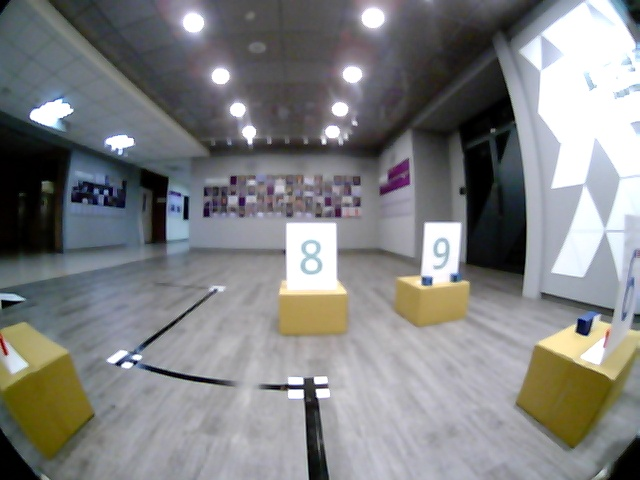
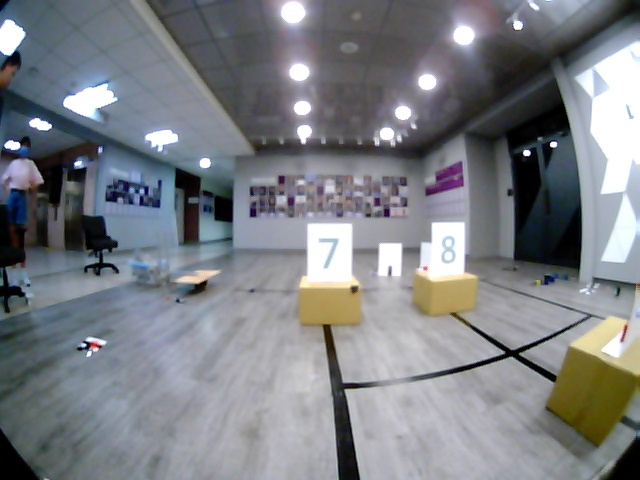
還差左移右移，推牌前65cm

diff --git a/main_func/src/run.cpp b/main_func/src/run.cpp
@@ -10,6 +10,7 @@ int nodeToGo;
 double xNow, xLast = -1;
 bool nodeLoseConp = 0;
 int capt_ed_times = 0;
+bool rotate_ed = 0;
 
 ros::Publisher orientation_pub;
 ros::Publisher cmd_vel_pub;
@@ -43,10 +44,11 @@ void numberCallback(const std_msgs::Int32MultiArray::ConstPtr& the_numbers){
     for(auto i:the_numbers->data){
         CAM::numbers.insert(i);
     }
+    _pub4 = 0;
 }
 void odomCallback(const geometry_msgs::Twist::ConstPtr& ins_vel){
     odometry.update(ins_vel);
-    ROS_INFO("{%d -> %d}  (%.1lf, %.1lf, %.1lf) oriNow: %d",MAP::nodeNow,nodeToGo,odometry.x, odometry.y, odometry.theta, ODOM::oriNow);
+    // ROS_INFO("{%d -> %d}  (%.1lf, %.1lf, %.1lf) oriNow: %d",MAP::nodeNow,nodeToGo,odometry.x, odometry.y, odometry.theta, ODOM::oriNow);
 }
 
 int main(int argc, char **argv){
@@ -82,32 +84,21 @@ int main(int argc, char **argv){
 
 
     */
-    // MAP::nodeNow = 4;       //
+    // MAP::nodeNow = 10;       //
     // odometry.x = 330;       //
-    // nodeToGo = 7;           //    
+    // nodeToGo = 11;           //    
+
+    ros::Rate delay3(1);
+    delay3.sleep();
+    delay3.sleep();
+    delay3.sleep();
 
     SCRIPT::firstLevel(nh);
     ROS_INFO("pass 1st Level!!");
 
-    ros::Rate rate(20);
-    while(nh.ok() && odometry.theta < PI/2){
-        //逆時針轉90度
-        ros::spinOnce();
-        ODOM::oriNow = orientation.data = 4;
-        // rotate_ang.angular.z = 1;
-        // cmd_vel_pub.publish(rotate_ang);
-        orientation_pub.publish(orientation);
-        rate.sleep();
-    }
-    while(nh.ok() && odometry.theta < 90){
-        //逆時針轉90度
-        ros::spinOnce();
-        ODOM::oriNow = orientation.data = 4;
-        // rotate_ang.angular.z = 1;
-        // cmd_vel_pub.publish(rotate_ang);
-        orientation_pub.publish(orientation);
-        rate.sleep();
-    }
+    //往左走65cm
+    
+    ROS_INFO("rotate_done!!");
     int cmdori_7_times = 0;
     while(nh.ok()){
         if(cmdori_7_times < 40){
@@ -125,9 +116,25 @@ void SCRIPT::firstLevel(ros::NodeHandle& nh){
     ROS_INFO("On -1, -> 0 ; go ahead: 0");
     int cmdori_6_times = 0;
     // int cmdori_6_times = 800;   //
-    while(nh.ok() && MAP::nodeNow < 12){
+    while(nh.ok() && MAP::nodeNow < 13){
         cam_pub.publish(cam_mode);
         ros::spinOnce();
+
+        if(nodeNow == 12 && !rotate_ed){
+            while(nh.ok() && odometry.theta < PI/2){
+            //逆時針轉90度
+                ros::spinOnce();
+                ODOM::oriNow = orientation.data = 4;
+                // rotate_ang.angular.z = 1;
+                // cmd_vel_pub.publish(rotate_ang);
+                orientation_pub.publish(orientation);
+                rate.sleep();
+                ROS_INFO("rotating");
+            }
+            rotate_ed = 1;
+            ODOM::oriNow = orientation.data = 0;
+            ROS_INFO("rotate_ed");
+        }
 
         if(onNode){
             // nodeLoseConp = 0;
@@ -156,29 +163,24 @@ void SCRIPT::firstLevel(ros::NodeHandle& nh){
             nodeToGo = max;
 
             ODOM::oriNow = orientation.data = MAP::cmd_ori(nodeToGo, nodeNow);
-            // if(nodeNow == 1 && nodeToGo == 4
-            // || nodeNow == 2 && nodeToGo == 5
-            // || nodeNow == 3 && nodeToGo == 6){
-            //     orientation.data = 6;
-            // }
-
             MAP::eraseEdge(nodeToGo, nodeNow);
             onNode = false;
 
             ROS_INFO("On %d, -> %d ; go ahead: %d",nodeNow,nodeToGo,orientation.data);
 
         }
-        
-        // if(MAP::disToOdom(nodeToGo) < decelerationZone)    orientation.data = -2;
 
         if(ODOM::slow(nodeToGo))     orientation.data = -2;
-        if(odometry.x >= 140 + 10 && cmdori_6_times < 600){
+        if(odometry.x >= 140 + 20 && cmdori_6_times < 600){
             orientation.data = 6;
             cmdori_6_times++;
         }else if(cmdori_6_times == 600){
+            // while(){
+                //左移右移 追到線
+            // }
             orientation.data = 0;
             cmdori_6_times++;
-            odometry.x = 330;
+            odometry.x = 300;
         }
 
         orientation_pub.publish(orientation);

diff --git a/yolov8/src/cam.cpp b/yolov8/src/cam.cpp
@@ -14,10 +14,12 @@ ros::Publisher detect_pub;
 VideoCapture cap;
 std_msgs::Bool detect_msg;
 
+bool flag1, flag2, flag3 = true;
+
 bool openCam(){
     cap.open(0, CAP_V4L2);
     if (cap.isOpened()) {
-        // ROS_INFO("[1] Camera opened.");
+        ROS_INFO("[1] Camera opened.");
         return true;
     } else {
         ROS_ERROR("[1] Could not open the camera. Retrying...");
@@ -28,10 +30,10 @@ bool openCam(){
 bool closeCam(){
     if (cap.isOpened()) {
         cap.release();
-        // ROS_INFO("[2] Camera closed.");
+        ROS_INFO("[2] Camera closed.");
         return true;
     } else {
-        // ROS_ERROR("[2] Could not close the camera. Retrying...");
+        ROS_ERROR("[2] Could not close the camera. Retrying...");
         return false;
     }
 }
@@ -41,12 +43,11 @@ bool detect(){
     std::ostringstream img_path_stream;
     img_path_stream << "/home/ditrobotics/tdk_ws/src/yolov8/jpg/capture.jpg";
     std::string img_path = img_path_stream.str();
-    // idx++;
 
     Mat frame;
     cap >> frame; 
     bool success = cv::imwrite(img_path, frame);  // Save the image
-    if (success); //ROS_INFO("[3] Image captured and saved.");
+    if (success) ROS_INFO("[3] Image captured and saved.");
     else ROS_ERROR("[3] Failed to save the image. Retrying...");
     
     // call detect.py
@@ -57,22 +58,26 @@ bool detect(){
         rate.sleep();
     }
     
-    // ROS_INFO("[3] Detect Finish.");
+    ROS_INFO("[3] Detect Finish.");
     return success;
 }
 
 void modeCallback(const std_msgs::Int32::ConstPtr& msg)
 {
     int att, mode = msg->data;
-    if (mode == 1) { 
+    if (mode == 1 && flag1) { 
         att = 0;
         while(!openCam() && att<ATTEMPT) att++;
-    } else if (mode == 2) {
+    } else if (mode == 2 && flag2) {
         att = 0;
         while(!closeCam() && att<ATTEMPT) att++;
-    } else if (mode == 3) {
+    } else if (mode == 3 && flag3) {
         att = 0;
         while(!detect() && att<ATTEMPT) att++;
+    } else if (mode == 4) {
+        flag1 = true;
+        flag2 = true;
+        flag3 = true;
     }
 }
 

diff --git a/tutorial/src/navi_tracking.cpp b/tutorial/src/navi_tracking.cpp
@@ -29,6 +29,7 @@ geometry_msgs::Twist vel;
 //tracker arguments --from Arduino
 double Err_d,Err_theta;
 int8_t std_tracker_data[20],temp[20];
+// int8_t weight_array[20] = {5,2,0,-2,-5,-10,0,0,0,-10,-5,-2,0,2,5,10,0,0,0,10};
 int8_t weight_array[20] = {2,1,0,-1,-2,-3,0,0,0,-3,-2,-1,0,1,2,3,0,0,0,3};
 
 
@@ -84,7 +85,7 @@ std_msgs::Bool node_detect(){
         result.data = true;
         return result;
     }
-    if(std_tracker_data[8] == black && std_tracker_data[7] == black && std_tracker_data[12] == black){
+    if(std_tracker_data[6] == black && std_tracker_data[7] == black && std_tracker_data[12] == black){
         result.data = true;
         return result;
     }
@@ -203,10 +204,8 @@ int main(int argc, char** argv) {
         nh.getParam("/V",V);
         nh.getParam("/vel_limit",vel_limit);
 
-        
         if(ori >= 0 && ori < 4 || ori == -2){
             if(ori == -2){
-
                 _phy_maxMS = slowMS;
                 ori = last_ori;
             }else if(ori == -1){
@@ -216,8 +215,9 @@ int main(int argc, char** argv) {
             }
 
 
-            node_point = node_detect();
+            
             tracker.tracker_data_std();
+            node_point = node_detect();
 
             if(ori_old != ori){
                 prev_ori = ori_old;
@@ -234,7 +234,7 @@ int main(int argc, char** argv) {
             double VY = V*sin(((double)ori)*0.5*pi) + u_d*cos(((double)ori)*0.5*pi);
 
 //
-            if(!PID_mode){
+            if(!PID_mode && prev_ori != -1){
                 u_d = node_overshoot_logic();
                 u_theta = 0;
                 VX = -u_d*sin(((double)ori)*0.5*pi);

diff --git a/main_func/lib/cam.cpp b/main_func/lib/cam.cpp
@@ -4,6 +4,7 @@ set<int> CAM::numbers;
 
 double secondCapt = 300;
 double thirdCapt = 430;
+int _pub4 = 0;
 
 void CAM::capture_n_detect(int op, ros::Publisher& cam_pub, 
         ros::Publisher& orientation_pub, ros::NodeHandle& nh){
@@ -19,6 +20,8 @@ void CAM::capture_n_detect(int op, ros::Publisher& cam_pub,
     int _a = 0, _b = 0;
     do{     //the capture and detect process
         ros::spinOnce();
+        if(_pub4 > 60)   cam_mode.data = 4;
+        else    cam_mode.data = 3;
         cam_pub.publish(cam_mode);
         orientation_pub.publish(cease);
         int a = 0, b = 0;
@@ -39,6 +42,7 @@ void CAM::capture_n_detect(int op, ros::Publisher& cam_pub,
         }
         _a = a;     _b = b;
         // ROS_INFO("flag = %d",flag);
+        _pub4 ++;
         rate.sleep();
     }while(!flag && nh.ok());
     what_to_erase(_a, _b);

diff --git a/tutorial/src/comm_vel.cpp b/tutorial/src/comm_vel.cpp
@@ -99,7 +99,10 @@ int main(int argc, char **argv)
 
         }
         else if(ori == 7){
-
+            vel.linear.x = 0;
+            vel.linear.y = 0;
+            vel.angular.z = 0;
+            pub.publish(vel);
         }
         else if(ori == 8){
 

diff --git a/main_func/include/main_func/cam.h b/main_func/include/main_func/cam.h
@@ -5,6 +5,7 @@
 
 extern double secondCapt;
 extern double thirdCapt;
+extern int _pub4;
 
 namespace CAM{
     extern set<int> numbers;
